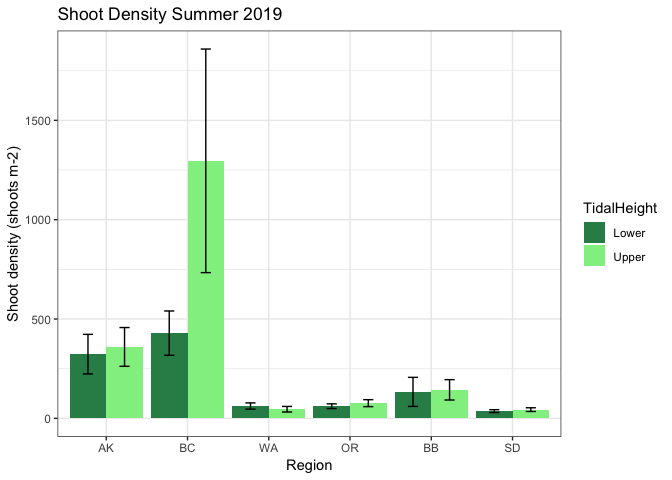
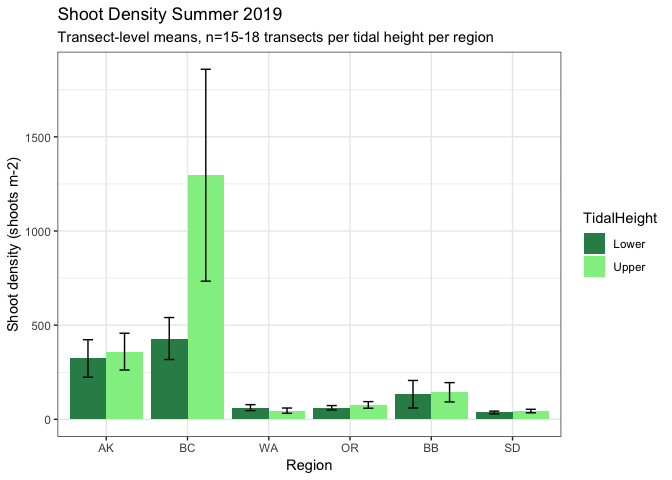
Double checking the density plots and makeing a few edits

diff --git a/Density.md b/Density.md
@@ -9,4 +9,4 @@ LRA
 
 ![](Density_files/figure-gfm/density_by_region-1.png)<!-- -->
 
-![](Density_files/figure-gfm/density_by_sitecode-1.png)<!-- -->
+![](Density_files/figure-gfm/density_by_sitecode-1.png)<!-- -->![](Density_files/figure-gfm/density_by_sitecode-2.png)<!-- -->
